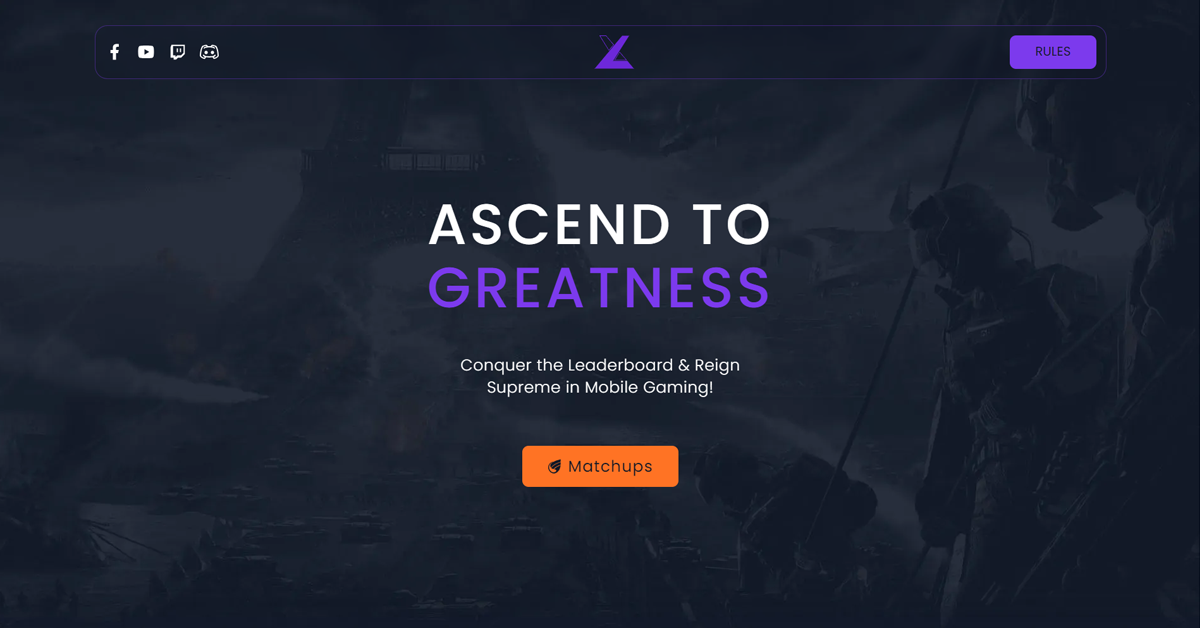
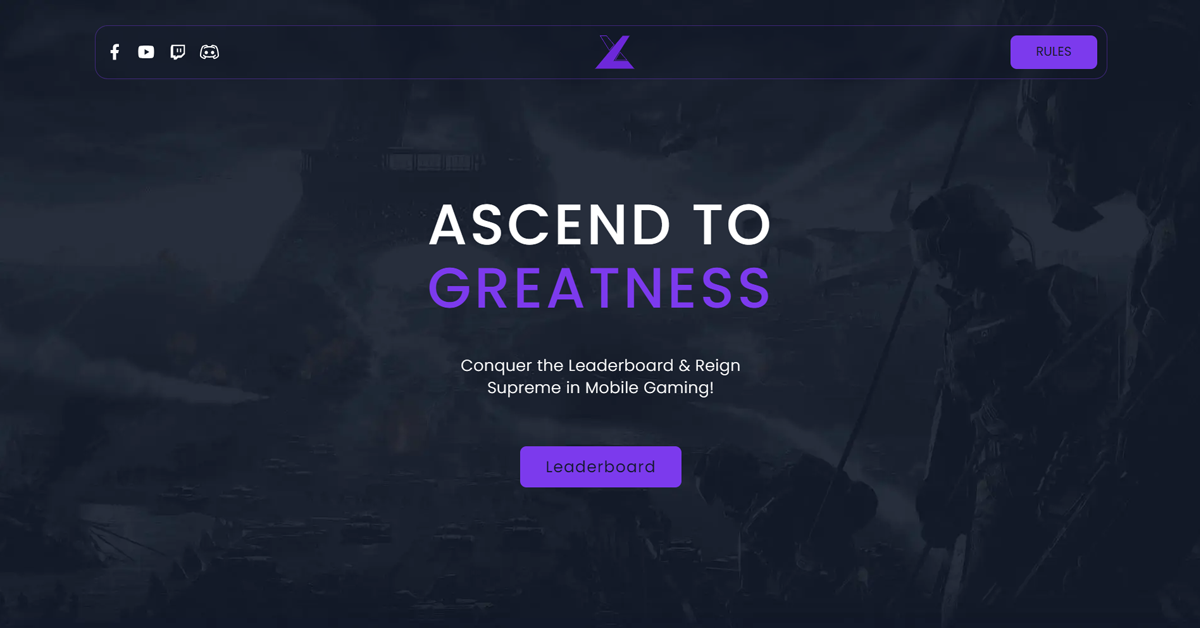
Changed button in hero section

diff --git a/app/components/hero.tsx b/app/components/hero.tsx
@@ -1,3 +1,5 @@
+"use client";
+
 import Image from "next/image";
 import Link from "next/link";
 
@@ -12,45 +14,14 @@ export default function Hero() {
         Conquer the Leaderboard & Reign Supreme in Mobile Gaming!
       </p>
       <div className="">
-        <Link
-          href="https://challonge.com/xtreme_league_s2"
-          target="_blank"
-          className="challonge-btn flex items-center gap-2 rounded-lg bg-[#ff7324] px-8 py-3 tracking-wider text-gray-900 transition-colors duration-300 ease-in-out hover:bg-gray-800 hover:text-[#ff7324] md:text-xl"
+        <a
+          onClick={() => {
+            window.scrollTo(0, 800);
+          }}
+          className="flex cursor-pointer items-center gap-2 rounded-lg bg-primary600 px-8 py-3 tracking-wider text-gray-900 transition-colors duration-300 ease-in-out hover:bg-gray-800 hover:text-primary600 md:text-xl"
         >
-          <svg
-            width="18px"
-            height="18px"
-            className="challonge-logo fill-gray-900"
-            viewBox="0 0 78 84"
-            version="1.1"
-            xmlns="http://www.w3.org/2000/svg"
-          >
-            <g id="Page-1" stroke="none" stroke-width="1">
-              <g
-                id="logo_challonge_dark"
-                transform="translate(0.000000, 1.000000)"
-              >
-                <g id="g3250" transform="translate(0.177760, 0.000000)">
-                  <g id="g3254">
-                    <path
-                      d="M75.496,17.625 C53.644,23.23 34.261,33.146 18.695,49.873 C22.621,54.124 27.111,55.428 32.439,56.423 C43.882,44.618 57.909,37.12 73.704,32.568 C77.585,31.448 75.627,21.115 75.496,17.625 L75.496,17.625 Z"
-                      id="path3256"
-                    ></path>
-                    <path
-                      d="M17.925,18.311 C1.571,27.753 -4.033,48.672 5.408,65.025 C10.283,73.468 18.218,79.046 27.002,81.166 C53.507,87.551 75.657,59.281 74.72,34.476 C59.661,38.948 46.573,46.268 35.865,57.025 C67.325,62.447 38.969,84.632 18.814,71.009 C4.357,61.237 2.67,42.902 10.885,29.184 C15.932,20.755 22.997,17.538 31.518,13.903 C26.866,14.379 22.236,15.821 17.925,18.311 L17.925,18.311 Z"
-                      id="path3258"
-                    ></path>
-                    <path
-                      d="M75.387,0 C46.351,8.964 14.974,17.076 13.165,35.94 C12.763,38.743 13.354,41.802 15.305,45.18 C15.93,46.261 16.568,47.228 17.222,48.099 C32.134,31.207 51.189,21.179 73.827,15.408 C77.742,14.41 75.519,3.489 75.387,-5.32907052e-15 L75.387,0 Z"
-                      id="path3260"
-                    ></path>
-                  </g>
-                </g>
-              </g>
-            </g>
-          </svg>
-          Matchups
-        </Link>
+          Leaderboard
+        </a>
       </div>
 
       <Image

diff --git a/app/components/leaderboard-section.tsx b/app/components/leaderboard-section.tsx
@@ -4,7 +4,10 @@ import TeamLeaderboardCard from "./team-leaderboard-card";
 
 export default function LeaderboardSection() {
   return (
-    <div className="flex flex-col items-center justify-center gap-16 bg-gray-900 px-4 py-32">
+    <div
+      id="#lb"
+      className="flex flex-col items-center justify-center gap-16 bg-gray-900 px-4 py-32"
+    >
       <h1 className="text-center text-4xl font-semibold text-white md:text-5xl lg:text-6xl">
         <span className="outline-text">Xtreme</span> Ranks
       </h1>
